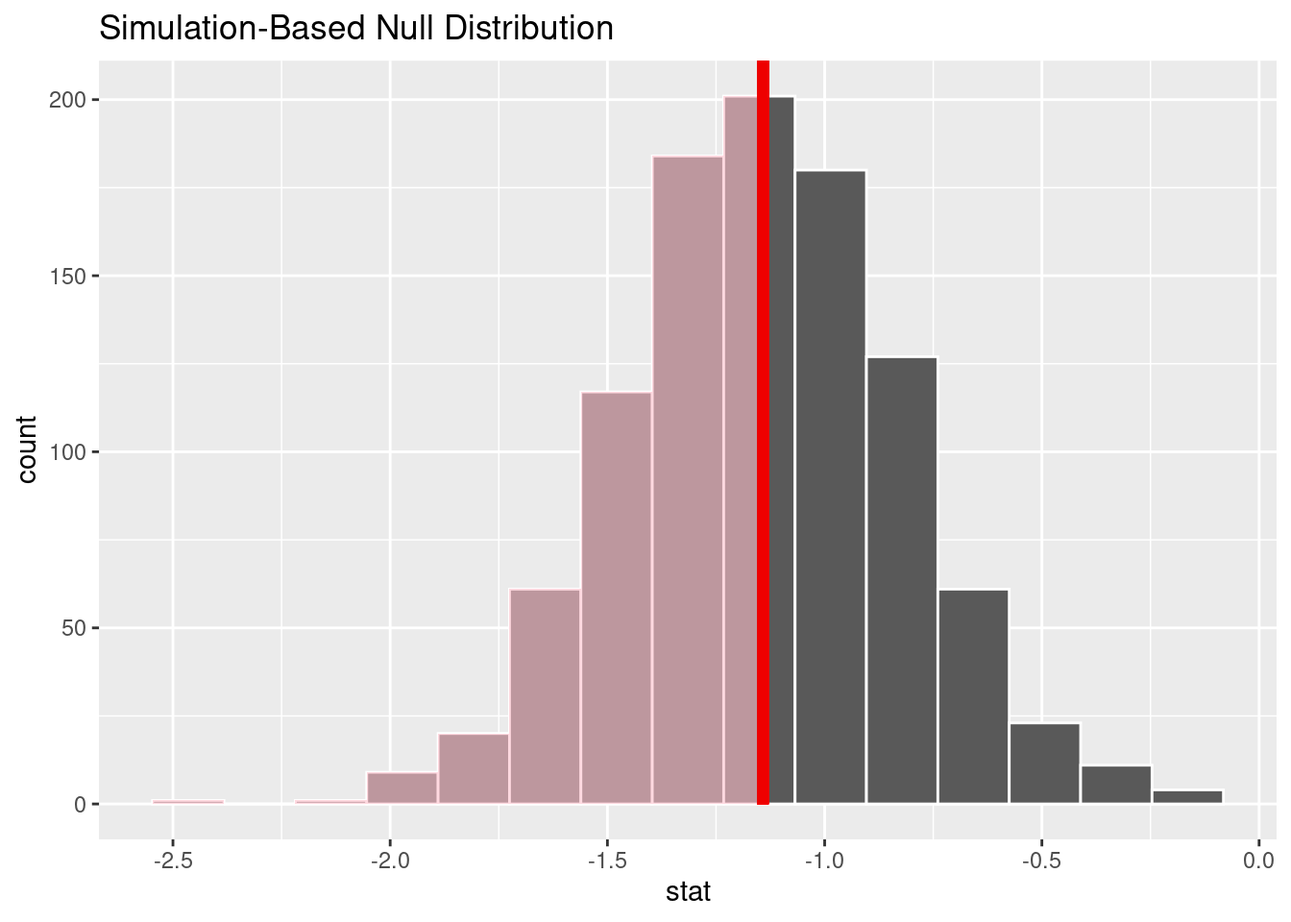
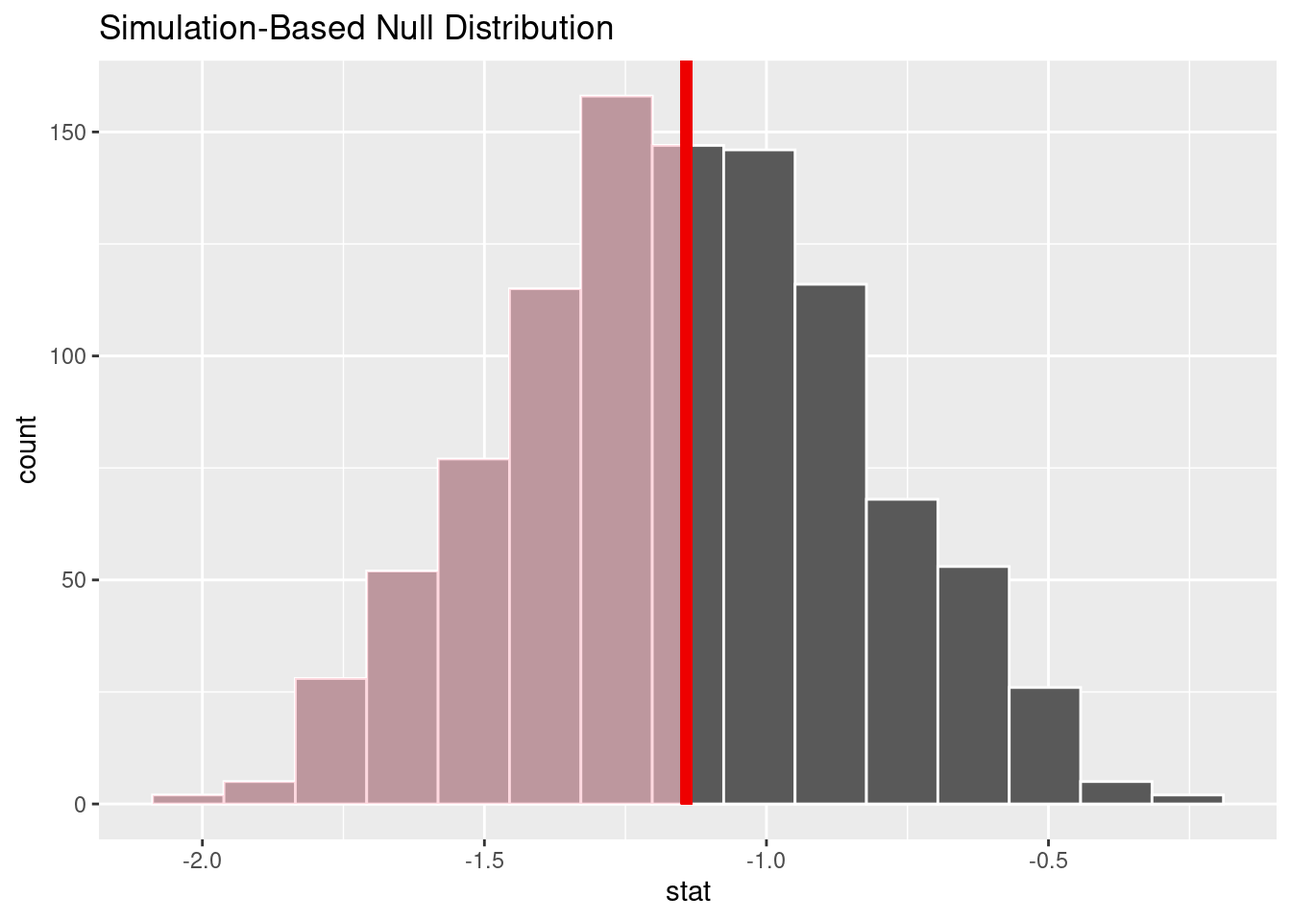
update in slides

diff --git a/docs/report.html b/docs/report.html
@@ -257,7 +257,7 @@ code span.wa { color: #60a0b0; font-weight: bold; font-style: italic; } /* Warni
 ✖ dplyr::lag()      masks stats::lag()
 ✖ yardstick::spec() masks readr::spec()
 ✖ recipes::step()   masks stats::step()
-• Dig deeper into tidy modeling with R at https://www.tmwr.org</code></pre>
+• Learn how to get started at https://www.tidymodels.org/start/</code></pre>
 </div>
 <div class="sourceCode cell-code" id="cb5"><pre class="sourceCode r code-with-copy"><code class="sourceCode r"><span id="cb5-1"><a href="#cb5-1" aria-hidden="true" tabindex="-1"></a><span class="fu">library</span>(dplyr)</span>
 <span id="cb5-2"><a href="#cb5-2" aria-hidden="true" tabindex="-1"></a></span>
@@ -499,24 +499,25 @@ Specify the column types or set `show_col_types = FALSE` to quiet this message.
 <section id="first-analysis-hypothesis-test" class="level4">
 <h4 class="anchored" data-anchor-id="first-analysis-hypothesis-test"><strong><em>First Analysis: Hypothesis Test</em></strong></h4>
 <p><strong>Research Question:</strong> Is the quality of exclusive shows different from non-exclusive shows in a specific platform, for each platform separately?</p>
-<p><strong>Null Hypothesis</strong>: The Rotten Tomatoes score of exclusive shows is less than the Rotten Tomatoes score of non-exclusive shows across all four platforms.</p>
+<p><strong>Null Hypothesis</strong>: The average Rotten Tomatoes score of exclusive shows is less than the average Rotten Tomatoes score of non-exclusive shows across all four platforms.</p>
 <p><span class="math display">\[
 H_0: \mu_{exclusive} &lt; \mu_{non-exclusive}
 \]</span></p>
-<p>Alternative Hypothesis: The Rotten Tomatoes score of exclusive shows is greater than the Rotten Tomatoes score of non-exclusive shows across all four platforms.</p>
+<p>Alternative Hypothesis: The average Rotten Tomatoes score of exclusive shows is greater than the average Rotten Tomatoes score of non-exclusive shows across all four platforms.</p>
 <p><span class="math display">\[
 H_0: \mu_{exclusive} &gt; \mu_{non-exclusive}
 \]</span></p>
 <div class="cell">
 <div class="sourceCode cell-code" id="cb22"><pre class="sourceCode r code-with-copy"><code class="sourceCode r"><span id="cb22-1"><a href="#cb22-1" aria-hidden="true" tabindex="-1"></a><span class="co">#|label: hypothesis-testing-analysis-1-multivariable</span></span>
-<span id="cb22-2"><a href="#cb22-2" aria-hidden="true" tabindex="-1"></a></span>
-<span id="cb22-3"><a href="#cb22-3" aria-hidden="true" tabindex="-1"></a><span class="fu">names</span>(tv_shows_cleaned_copy)[<span class="dv">7</span>] <span class="ot">&lt;-</span> <span class="st">"rotten_tomatoes"</span></span>
-<span id="cb22-4"><a href="#cb22-4" aria-hidden="true" tabindex="-1"></a></span>
-<span id="cb22-5"><a href="#cb22-5" aria-hidden="true" tabindex="-1"></a>observed_fit <span class="ot">&lt;-</span> tv_shows_cleaned_copy <span class="sc">|&gt;</span></span>
-<span id="cb22-6"><a href="#cb22-6" aria-hidden="true" tabindex="-1"></a>  <span class="fu">specify</span>(rotten_tomatoes <span class="sc">~</span> Netflix <span class="sc">+</span> Hulu <span class="sc">+</span> disney_plus <span class="sc">+</span> prime_video) <span class="sc">|&gt;</span></span>
-<span id="cb22-7"><a href="#cb22-7" aria-hidden="true" tabindex="-1"></a>  <span class="fu">fit</span>()</span>
-<span id="cb22-8"><a href="#cb22-8" aria-hidden="true" tabindex="-1"></a></span>
-<span id="cb22-9"><a href="#cb22-9" aria-hidden="true" tabindex="-1"></a>observed_fit</span></code><button title="Copy to Clipboard" class="code-copy-button"><i class="bi"></i></button></pre></div>
+<span id="cb22-2"><a href="#cb22-2" aria-hidden="true" tabindex="-1"></a><span class="co">#|fig-height: 20</span></span>
+<span id="cb22-3"><a href="#cb22-3" aria-hidden="true" tabindex="-1"></a></span>
+<span id="cb22-4"><a href="#cb22-4" aria-hidden="true" tabindex="-1"></a><span class="fu">names</span>(tv_shows_cleaned_copy)[<span class="dv">7</span>] <span class="ot">&lt;-</span> <span class="st">"rotten_tomatoes"</span></span>
+<span id="cb22-5"><a href="#cb22-5" aria-hidden="true" tabindex="-1"></a></span>
+<span id="cb22-6"><a href="#cb22-6" aria-hidden="true" tabindex="-1"></a>observed_fit <span class="ot">&lt;-</span> tv_shows_cleaned_copy <span class="sc">|&gt;</span></span>
+<span id="cb22-7"><a href="#cb22-7" aria-hidden="true" tabindex="-1"></a>  <span class="fu">specify</span>(rotten_tomatoes <span class="sc">~</span> Netflix <span class="sc">+</span> Hulu <span class="sc">+</span> disney_plus <span class="sc">+</span> prime_video) <span class="sc">|&gt;</span></span>
+<span id="cb22-8"><a href="#cb22-8" aria-hidden="true" tabindex="-1"></a>  <span class="fu">fit</span>()</span>
+<span id="cb22-9"><a href="#cb22-9" aria-hidden="true" tabindex="-1"></a></span>
+<span id="cb22-10"><a href="#cb22-10" aria-hidden="true" tabindex="-1"></a>observed_fit</span></code><button title="Copy to Clipboard" class="code-copy-button"><i class="bi"></i></button></pre></div>
 <div class="cell-output cell-output-stdout">
 <pre><code># A tibble: 5 × 2
   term           estimate
@@ -544,11 +545,11 @@ H_0: \mu_{exclusive} &gt; \mu_{non-exclusive}
 <pre><code># A tibble: 5 × 3
   term           lower_ci upper_ci
   &lt;chr&gt;             &lt;dbl&gt;    &lt;dbl&gt;
-1 HuluYes           -1.85     1.72
-2 NetflixYes        -1.95     1.79
-3 disney_plusYes    -2.59     2.86
-4 intercept         45.4     49.0 
-5 prime_videoYes    -1.88     1.87</code></pre>
+1 HuluYes           -1.81     1.97
+2 NetflixYes        -1.91     2.04
+3 disney_plusYes    -2.73     2.70
+4 intercept         45.2     49.1 
+5 prime_videoYes    -1.89     1.94</code></pre>
 </div>
 <div class="sourceCode cell-code" id="cb26"><pre class="sourceCode r code-with-copy"><code class="sourceCode r"><span id="cb26-1"><a href="#cb26-1" aria-hidden="true" tabindex="-1"></a><span class="fu">get_p_value</span>(</span>
 <span id="cb26-2"><a href="#cb26-2" aria-hidden="true" tabindex="-1"></a>  <span class="at">x =</span> null_fits,</span>
@@ -568,7 +569,103 @@ approximation based on the number of `reps` chosen in the `generate()` step. See
 2 NetflixYes       1    
 3 disney_plusYes   1    
 4 intercept        0    
-5 prime_videoYes   0.471</code></pre>
+5 prime_videoYes   0.457</code></pre>
+</div>
+<div class="sourceCode cell-code" id="cb29"><pre class="sourceCode r code-with-copy"><code class="sourceCode r"><span id="cb29-1"><a href="#cb29-1" aria-hidden="true" tabindex="-1"></a><span class="fu">visualize</span>(null_fits) <span class="sc">+</span></span>
+<span id="cb29-2"><a href="#cb29-2" aria-hidden="true" tabindex="-1"></a>  <span class="fu">shade_p_value</span>(<span class="at">obs_stat =</span> observed_fit, <span class="at">direction=</span><span class="st">"two sided"</span>)</span></code><button title="Copy to Clipboard" class="code-copy-button"><i class="bi"></i></button></pre></div>
+<div class="cell-output-display">
+<p><img src="report_files/figure-html/unnamed-chunk-3-1.png" class="img-fluid" width="672"></p>
+</div>
+</div>
+<div class="cell">
+<div class="sourceCode cell-code" id="cb30"><pre class="sourceCode r code-with-copy"><code class="sourceCode r"><span id="cb30-1"><a href="#cb30-1" aria-hidden="true" tabindex="-1"></a>tv_shows_cleaned_copy1 <span class="ot">&lt;-</span> tv_shows_cleaned_copy <span class="sc">|&gt;</span></span>
+<span id="cb30-2"><a href="#cb30-2" aria-hidden="true" tabindex="-1"></a>  <span class="fu">pivot_longer</span>(</span>
+<span id="cb30-3"><a href="#cb30-3" aria-hidden="true" tabindex="-1"></a>    <span class="at">cols =</span> exclusive_netflix<span class="sc">:</span>exclusive_disney_plus,</span>
+<span id="cb30-4"><a href="#cb30-4" aria-hidden="true" tabindex="-1"></a>    <span class="at">names_to =</span> <span class="st">"all_platforms"</span>,</span>
+<span id="cb30-5"><a href="#cb30-5" aria-hidden="true" tabindex="-1"></a>    <span class="at">values_to =</span> <span class="st">"exclusivity"</span></span>
+<span id="cb30-6"><a href="#cb30-6" aria-hidden="true" tabindex="-1"></a>  )</span>
+<span id="cb30-7"><a href="#cb30-7" aria-hidden="true" tabindex="-1"></a></span>
+<span id="cb30-8"><a href="#cb30-8" aria-hidden="true" tabindex="-1"></a>tv_shows_cleaned_copy1</span></code><button title="Copy to Clipboard" class="code-copy-button"><i class="bi"></i></button></pre></div>
+<div class="cell-output cell-output-stdout">
+<pre><code># A tibble: 21,472 × 14
+    ...1    ID Title  Year Age   IMDb  rotten_tomatoes Netflix Hulu  prime_video
+   &lt;dbl&gt; &lt;dbl&gt; &lt;chr&gt; &lt;dbl&gt; &lt;chr&gt; &lt;chr&gt;           &lt;int&gt; &lt;chr&gt;   &lt;chr&gt; &lt;chr&gt;      
+ 1     0     1 Brea…  2008 18+   9.4/…             100 Yes     No    No         
+ 2     0     1 Brea…  2008 18+   9.4/…             100 Yes     No    No         
+ 3     0     1 Brea…  2008 18+   9.4/…             100 Yes     No    No         
+ 4     0     1 Brea…  2008 18+   9.4/…             100 Yes     No    No         
+ 5     1     2 Stra…  2016 16+   8.7/…              96 Yes     No    No         
+ 6     1     2 Stra…  2016 16+   8.7/…              96 Yes     No    No         
+ 7     1     2 Stra…  2016 16+   8.7/…              96 Yes     No    No         
+ 8     1     2 Stra…  2016 16+   8.7/…              96 Yes     No    No         
+ 9     2     3 Atta…  2013 18+   9.0/…              95 Yes     Yes   No         
+10     2     3 Atta…  2013 18+   9.0/…              95 Yes     Yes   No         
+# ℹ 21,462 more rows
+# ℹ 4 more variables: disney_plus &lt;chr&gt;, Type &lt;dbl&gt;, all_platforms &lt;chr&gt;,
+#   exclusivity &lt;lgl&gt;</code></pre>
+</div>
+<div class="sourceCode cell-code" id="cb32"><pre class="sourceCode r code-with-copy"><code class="sourceCode r"><span id="cb32-1"><a href="#cb32-1" aria-hidden="true" tabindex="-1"></a><span class="fu">names</span>(tv_shows_cleaned_copy1)[<span class="dv">7</span>] <span class="ot">&lt;-</span> <span class="st">"rotten_tomatoes"</span></span>
+<span id="cb32-2"><a href="#cb32-2" aria-hidden="true" tabindex="-1"></a></span>
+<span id="cb32-3"><a href="#cb32-3" aria-hidden="true" tabindex="-1"></a>observed_fit1 <span class="ot">&lt;-</span> tv_shows_cleaned_copy1 <span class="sc">|&gt;</span></span>
+<span id="cb32-4"><a href="#cb32-4" aria-hidden="true" tabindex="-1"></a>  <span class="fu">specify</span>(rotten_tomatoes <span class="sc">~</span> exclusivity) <span class="sc">|&gt;</span></span>
+<span id="cb32-5"><a href="#cb32-5" aria-hidden="true" tabindex="-1"></a>  <span class="fu">calculate</span>(<span class="at">stat =</span> <span class="st">"diff in means"</span>, <span class="at">order =</span> <span class="fu">c</span>(<span class="cn">TRUE</span>, <span class="cn">FALSE</span>))</span>
+<span id="cb32-6"><a href="#cb32-6" aria-hidden="true" tabindex="-1"></a></span>
+<span id="cb32-7"><a href="#cb32-7" aria-hidden="true" tabindex="-1"></a>observed_fit1</span></code><button title="Copy to Clipboard" class="code-copy-button"><i class="bi"></i></button></pre></div>
+<div class="cell-output cell-output-stdout">
+<pre><code>Response: rotten_tomatoes (numeric)
+Explanatory: exclusivity (factor)
+# A tibble: 1 × 1
+   stat
+  &lt;dbl&gt;
+1 -1.14</code></pre>
+</div>
+<div class="sourceCode cell-code" id="cb34"><pre class="sourceCode r code-with-copy"><code class="sourceCode r"><span id="cb34-1"><a href="#cb34-1" aria-hidden="true" tabindex="-1"></a>null_fits1 <span class="ot">&lt;-</span> tv_shows_cleaned_copy1 <span class="sc">|&gt;</span></span>
+<span id="cb34-2"><a href="#cb34-2" aria-hidden="true" tabindex="-1"></a>  <span class="fu">specify</span>(rotten_tomatoes <span class="sc">~</span> exclusivity) <span class="sc">|&gt;</span></span>
+<span id="cb34-3"><a href="#cb34-3" aria-hidden="true" tabindex="-1"></a>  <span class="fu">hypothesize</span>(<span class="at">null =</span> <span class="st">"independence"</span>) <span class="sc">|&gt;</span></span>
+<span id="cb34-4"><a href="#cb34-4" aria-hidden="true" tabindex="-1"></a>  <span class="fu">generate</span>(<span class="at">reps =</span> <span class="dv">1000</span>, <span class="at">type =</span> <span class="st">"permute"</span>) <span class="sc">|&gt;</span></span>
+<span id="cb34-5"><a href="#cb34-5" aria-hidden="true" tabindex="-1"></a>  <span class="fu">calculate</span>(<span class="at">stat =</span> <span class="st">"diff in means"</span>, <span class="at">order =</span> <span class="fu">c</span>(<span class="cn">TRUE</span>, <span class="cn">FALSE</span>))</span>
+<span id="cb34-6"><a href="#cb34-6" aria-hidden="true" tabindex="-1"></a></span>
+<span id="cb34-7"><a href="#cb34-7" aria-hidden="true" tabindex="-1"></a><span class="fu">get_p_value</span>(</span>
+<span id="cb34-8"><a href="#cb34-8" aria-hidden="true" tabindex="-1"></a>  <span class="at">x =</span> null_fits1,</span>
+<span id="cb34-9"><a href="#cb34-9" aria-hidden="true" tabindex="-1"></a>  <span class="at">obs_stat =</span> observed_fit1,</span>
+<span id="cb34-10"><a href="#cb34-10" aria-hidden="true" tabindex="-1"></a>  <span class="at">direction =</span> <span class="st">"less"</span></span>
+<span id="cb34-11"><a href="#cb34-11" aria-hidden="true" tabindex="-1"></a>)</span></code><button title="Copy to Clipboard" class="code-copy-button"><i class="bi"></i></button></pre></div>
+<div class="cell-output cell-output-stderr">
+<pre><code>Warning: Please be cautious in reporting a p-value of 0. This result is an
+approximation based on the number of `reps` chosen in the `generate()` step. See
+`?get_p_value()` for more information.</code></pre>
+</div>
+<div class="cell-output cell-output-stdout">
+<pre><code># A tibble: 1 × 1
+  p_value
+    &lt;dbl&gt;
+1       0</code></pre>
+</div>
+<div class="sourceCode cell-code" id="cb37"><pre class="sourceCode r code-with-copy"><code class="sourceCode r"><span id="cb37-1"><a href="#cb37-1" aria-hidden="true" tabindex="-1"></a><span class="co">#Confidence Intervals</span></span>
+<span id="cb37-2"><a href="#cb37-2" aria-hidden="true" tabindex="-1"></a></span>
+<span id="cb37-3"><a href="#cb37-3" aria-hidden="true" tabindex="-1"></a>null_fits1 <span class="ot">&lt;-</span> tv_shows_cleaned_copy1 <span class="sc">|&gt;</span></span>
+<span id="cb37-4"><a href="#cb37-4" aria-hidden="true" tabindex="-1"></a>  <span class="fu">specify</span>(rotten_tomatoes <span class="sc">~</span> exclusivity) <span class="sc">|&gt;</span></span>
+<span id="cb37-5"><a href="#cb37-5" aria-hidden="true" tabindex="-1"></a>  <span class="fu">hypothesize</span>(<span class="at">null =</span> <span class="st">"independence"</span>) <span class="sc">|&gt;</span></span>
+<span id="cb37-6"><a href="#cb37-6" aria-hidden="true" tabindex="-1"></a>  <span class="fu">generate</span>(<span class="at">reps =</span> <span class="dv">1000</span>, <span class="at">type =</span> <span class="st">"bootstrap"</span>) <span class="sc">|&gt;</span></span>
+<span id="cb37-7"><a href="#cb37-7" aria-hidden="true" tabindex="-1"></a>  <span class="fu">calculate</span>(<span class="at">stat =</span> <span class="st">"diff in means"</span>, <span class="at">order =</span> <span class="fu">c</span>(<span class="cn">TRUE</span>, <span class="cn">FALSE</span>))</span>
+<span id="cb37-8"><a href="#cb37-8" aria-hidden="true" tabindex="-1"></a></span>
+<span id="cb37-9"><a href="#cb37-9" aria-hidden="true" tabindex="-1"></a>ci1 <span class="ot">&lt;-</span> <span class="fu">get_confidence_interval</span>(</span>
+<span id="cb37-10"><a href="#cb37-10" aria-hidden="true" tabindex="-1"></a>  <span class="at">x =</span> null_fits1,</span>
+<span id="cb37-11"><a href="#cb37-11" aria-hidden="true" tabindex="-1"></a>  <span class="at">point_estimate =</span> observed_fit1,</span>
+<span id="cb37-12"><a href="#cb37-12" aria-hidden="true" tabindex="-1"></a>  <span class="at">level =</span> <span class="fl">0.95</span></span>
+<span id="cb37-13"><a href="#cb37-13" aria-hidden="true" tabindex="-1"></a>)</span>
+<span id="cb37-14"><a href="#cb37-14" aria-hidden="true" tabindex="-1"></a></span>
+<span id="cb37-15"><a href="#cb37-15" aria-hidden="true" tabindex="-1"></a><span class="fu">print</span>(ci1)</span></code><button title="Copy to Clipboard" class="code-copy-button"><i class="bi"></i></button></pre></div>
+<div class="cell-output cell-output-stdout">
+<pre><code># A tibble: 1 × 2
+  lower_ci upper_ci
+     &lt;dbl&gt;    &lt;dbl&gt;
+1    -1.74   -0.533</code></pre>
+</div>
+<div class="sourceCode cell-code" id="cb39"><pre class="sourceCode r code-with-copy"><code class="sourceCode r"><span id="cb39-1"><a href="#cb39-1" aria-hidden="true" tabindex="-1"></a><span class="fu">visualize</span>(null_fits1) <span class="sc">+</span></span>
+<span id="cb39-2"><a href="#cb39-2" aria-hidden="true" tabindex="-1"></a>  <span class="fu">shade_p_value</span>(<span class="at">obs_stat =</span> observed_fit1, <span class="at">direction=</span><span class="st">"less"</span>)</span></code><button title="Copy to Clipboard" class="code-copy-button"><i class="bi"></i></button></pre></div>
+<div class="cell-output-display">
+<p><img src="report_files/figure-html/unnamed-chunk-4-1.png" class="img-fluid" width="672"></p>
 </div>
 </div>
 </section>
@@ -584,19 +681,19 @@ H_0: μ1 = μ2 = μ3 = μ4
 H_A: μ1 ≠ μ2 ≠ μ3 ≠ μ4
 \]</span></p>
 <div class="cell">
-<div class="sourceCode cell-code" id="cb29"><pre class="sourceCode r code-with-copy"><code class="sourceCode r"><span id="cb29-1"><a href="#cb29-1" aria-hidden="true" tabindex="-1"></a><span class="fu">library</span>(forcats)</span>
-<span id="cb29-2"><a href="#cb29-2" aria-hidden="true" tabindex="-1"></a></span>
-<span id="cb29-3"><a href="#cb29-3" aria-hidden="true" tabindex="-1"></a>tv_shows_exclusive <span class="ot">&lt;-</span> tv_shows_cleaned <span class="sc">|&gt;</span></span>
-<span id="cb29-4"><a href="#cb29-4" aria-hidden="true" tabindex="-1"></a>  <span class="fu">pivot_longer</span>(<span class="at">cols =</span> <span class="fu">c</span>(exclusive_netflix, exclusive_hulu, exclusive_disney_plus, exclusive_prime_video), <span class="at">values_to =</span> <span class="st">"bool"</span>, <span class="at">names_to =</span> <span class="st">"shows"</span>) <span class="sc">|&gt;</span></span>
-<span id="cb29-5"><a href="#cb29-5" aria-hidden="true" tabindex="-1"></a>  <span class="fu">filter</span>(bool <span class="sc">==</span> <span class="cn">TRUE</span>) <span class="sc">|&gt;</span></span>
-<span id="cb29-6"><a href="#cb29-6" aria-hidden="true" tabindex="-1"></a>  <span class="fu">mutate</span>(<span class="at">shows =</span> <span class="fu">fct_relevel</span>(<span class="at">.f =</span> shows, <span class="st">"exclusive_netflix"</span>))</span>
-<span id="cb29-7"><a href="#cb29-7" aria-hidden="true" tabindex="-1"></a></span>
-<span id="cb29-8"><a href="#cb29-8" aria-hidden="true" tabindex="-1"></a><span class="fu">set.seed</span>(<span class="dv">123</span>)</span>
-<span id="cb29-9"><a href="#cb29-9" aria-hidden="true" tabindex="-1"></a>observed_fit <span class="ot">&lt;-</span> tv_shows_exclusive <span class="sc">|&gt;</span></span>
-<span id="cb29-10"><a href="#cb29-10" aria-hidden="true" tabindex="-1"></a>  <span class="fu">specify</span>(<span class="st">`</span><span class="at">Rotten Tomatoes</span><span class="st">`</span> <span class="sc">~</span> shows) <span class="sc">|&gt;</span></span>
-<span id="cb29-11"><a href="#cb29-11" aria-hidden="true" tabindex="-1"></a>  <span class="fu">fit</span>()</span>
-<span id="cb29-12"><a href="#cb29-12" aria-hidden="true" tabindex="-1"></a></span>
-<span id="cb29-13"><a href="#cb29-13" aria-hidden="true" tabindex="-1"></a>observed_fit</span></code><button title="Copy to Clipboard" class="code-copy-button"><i class="bi"></i></button></pre></div>
+<div class="sourceCode cell-code" id="cb40"><pre class="sourceCode r code-with-copy"><code class="sourceCode r"><span id="cb40-1"><a href="#cb40-1" aria-hidden="true" tabindex="-1"></a><span class="fu">library</span>(forcats)</span>
+<span id="cb40-2"><a href="#cb40-2" aria-hidden="true" tabindex="-1"></a></span>
+<span id="cb40-3"><a href="#cb40-3" aria-hidden="true" tabindex="-1"></a>tv_shows_exclusive <span class="ot">&lt;-</span> tv_shows_cleaned <span class="sc">|&gt;</span></span>
+<span id="cb40-4"><a href="#cb40-4" aria-hidden="true" tabindex="-1"></a>  <span class="fu">pivot_longer</span>(<span class="at">cols =</span> <span class="fu">c</span>(exclusive_netflix, exclusive_hulu, exclusive_disney_plus, exclusive_prime_video), <span class="at">values_to =</span> <span class="st">"bool"</span>, <span class="at">names_to =</span> <span class="st">"shows"</span>) <span class="sc">|&gt;</span></span>
+<span id="cb40-5"><a href="#cb40-5" aria-hidden="true" tabindex="-1"></a>  <span class="fu">filter</span>(bool <span class="sc">==</span> <span class="cn">TRUE</span>) <span class="sc">|&gt;</span></span>
+<span id="cb40-6"><a href="#cb40-6" aria-hidden="true" tabindex="-1"></a>  <span class="fu">mutate</span>(<span class="at">shows =</span> <span class="fu">fct_relevel</span>(<span class="at">.f =</span> shows, <span class="st">"exclusive_netflix"</span>))</span>
+<span id="cb40-7"><a href="#cb40-7" aria-hidden="true" tabindex="-1"></a></span>
+<span id="cb40-8"><a href="#cb40-8" aria-hidden="true" tabindex="-1"></a><span class="fu">set.seed</span>(<span class="dv">123</span>)</span>
+<span id="cb40-9"><a href="#cb40-9" aria-hidden="true" tabindex="-1"></a>observed_fit <span class="ot">&lt;-</span> tv_shows_exclusive <span class="sc">|&gt;</span></span>
+<span id="cb40-10"><a href="#cb40-10" aria-hidden="true" tabindex="-1"></a>  <span class="fu">specify</span>(<span class="st">`</span><span class="at">Rotten Tomatoes</span><span class="st">`</span> <span class="sc">~</span> shows) <span class="sc">|&gt;</span></span>
+<span id="cb40-11"><a href="#cb40-11" aria-hidden="true" tabindex="-1"></a>  <span class="fu">fit</span>()</span>
+<span id="cb40-12"><a href="#cb40-12" aria-hidden="true" tabindex="-1"></a></span>
+<span id="cb40-13"><a href="#cb40-13" aria-hidden="true" tabindex="-1"></a>observed_fit</span></code><button title="Copy to Clipboard" class="code-copy-button"><i class="bi"></i></button></pre></div>
 <div class="cell-output cell-output-stdout">
 <pre><code># A tibble: 4 × 2
   term                       estimate
@@ -606,30 +703,18 @@ H_A: μ1 ≠ μ2 ≠ μ3 ≠ μ4
 3 showsexclusive_hulu           -1.56
 4 showsexclusive_prime_video   -17.9 </code></pre>
 </div>
-<div class="sourceCode cell-code" id="cb31"><pre class="sourceCode r code-with-copy"><code class="sourceCode r"><span id="cb31-1"><a href="#cb31-1" aria-hidden="true" tabindex="-1"></a>null_fits <span class="ot">&lt;-</span> tv_shows_exclusive <span class="sc">|&gt;</span></span>
-<span id="cb31-2"><a href="#cb31-2" aria-hidden="true" tabindex="-1"></a>  <span class="fu">specify</span>(<span class="st">`</span><span class="at">Rotten Tomatoes</span><span class="st">`</span> <span class="sc">~</span> shows) <span class="sc">|&gt;</span></span>
-<span id="cb31-3"><a href="#cb31-3" aria-hidden="true" tabindex="-1"></a>  <span class="fu">hypothesize</span>(<span class="at">null =</span> <span class="st">"independence"</span>) <span class="sc">|&gt;</span></span>
-<span id="cb31-4"><a href="#cb31-4" aria-hidden="true" tabindex="-1"></a>  <span class="fu">generate</span>(<span class="at">reps =</span> <span class="dv">1000</span>, <span class="at">type =</span> <span class="st">"permute"</span>) <span class="sc">|&gt;</span></span>
-<span id="cb31-5"><a href="#cb31-5" aria-hidden="true" tabindex="-1"></a>  <span class="fu">fit</span>()</span>
-<span id="cb31-6"><a href="#cb31-6" aria-hidden="true" tabindex="-1"></a></span>
-<span id="cb31-7"><a href="#cb31-7" aria-hidden="true" tabindex="-1"></a><span class="fu">get_confidence_interval</span>(</span>
-<span id="cb31-8"><a href="#cb31-8" aria-hidden="true" tabindex="-1"></a>  <span class="at">x =</span> null_fits,</span>
-<span id="cb31-9"><a href="#cb31-9" aria-hidden="true" tabindex="-1"></a>  <span class="at">point_estimate =</span> observed_fit,</span>
-<span id="cb31-10"><a href="#cb31-10" aria-hidden="true" tabindex="-1"></a>  <span class="at">level =</span> .<span class="dv">95</span>)</span></code><button title="Copy to Clipboard" class="code-copy-button"><i class="bi"></i></button></pre></div>
-<div class="cell-output cell-output-stdout">
-<pre><code># A tibble: 4 × 3
-  term                       lower_ci upper_ci
-  &lt;chr&gt;                         &lt;dbl&gt;    &lt;dbl&gt;
-1 intercept                     45.6     47.1 
-2 showsexclusive_disney_plus    -2.35     2.21
-3 showsexclusive_hulu           -1.37     1.28
-4 showsexclusive_prime_video    -1.36     1.29</code></pre>
-</div>
-<div class="sourceCode cell-code" id="cb33"><pre class="sourceCode r code-with-copy"><code class="sourceCode r"><span id="cb33-1"><a href="#cb33-1" aria-hidden="true" tabindex="-1"></a><span class="fu">get_p_value</span>(</span>
-<span id="cb33-2"><a href="#cb33-2" aria-hidden="true" tabindex="-1"></a>  <span class="at">x =</span> null_fits,</span>
-<span id="cb33-3"><a href="#cb33-3" aria-hidden="true" tabindex="-1"></a>  <span class="at">obs_stat =</span> observed_fit,</span>
-<span id="cb33-4"><a href="#cb33-4" aria-hidden="true" tabindex="-1"></a>  <span class="at">direction =</span> <span class="st">"two sided"</span></span>
-<span id="cb33-5"><a href="#cb33-5" aria-hidden="true" tabindex="-1"></a>)</span></code><button title="Copy to Clipboard" class="code-copy-button"><i class="bi"></i></button></pre></div>
+<div class="sourceCode cell-code" id="cb42"><pre class="sourceCode r code-with-copy"><code class="sourceCode r"><span id="cb42-1"><a href="#cb42-1" aria-hidden="true" tabindex="-1"></a><span class="co"># Permuting to compute p values</span></span>
+<span id="cb42-2"><a href="#cb42-2" aria-hidden="true" tabindex="-1"></a>null_fits <span class="ot">&lt;-</span> tv_shows_exclusive <span class="sc">|&gt;</span></span>
+<span id="cb42-3"><a href="#cb42-3" aria-hidden="true" tabindex="-1"></a>  <span class="fu">specify</span>(<span class="st">`</span><span class="at">Rotten Tomatoes</span><span class="st">`</span> <span class="sc">~</span> shows) <span class="sc">|&gt;</span></span>
+<span id="cb42-4"><a href="#cb42-4" aria-hidden="true" tabindex="-1"></a>  <span class="fu">hypothesize</span>(<span class="at">null =</span> <span class="st">"independence"</span>) <span class="sc">|&gt;</span></span>
+<span id="cb42-5"><a href="#cb42-5" aria-hidden="true" tabindex="-1"></a>  <span class="fu">generate</span>(<span class="at">reps =</span> <span class="dv">1000</span>, <span class="at">type =</span> <span class="st">"permute"</span>) <span class="sc">|&gt;</span></span>
+<span id="cb42-6"><a href="#cb42-6" aria-hidden="true" tabindex="-1"></a>  <span class="fu">fit</span>()</span>
+<span id="cb42-7"><a href="#cb42-7" aria-hidden="true" tabindex="-1"></a></span>
+<span id="cb42-8"><a href="#cb42-8" aria-hidden="true" tabindex="-1"></a><span class="fu">get_p_value</span>(</span>
+<span id="cb42-9"><a href="#cb42-9" aria-hidden="true" tabindex="-1"></a>  <span class="at">x =</span> null_fits,</span>
+<span id="cb42-10"><a href="#cb42-10" aria-hidden="true" tabindex="-1"></a>  <span class="at">obs_stat =</span> observed_fit,</span>
+<span id="cb42-11"><a href="#cb42-11" aria-hidden="true" tabindex="-1"></a>  <span class="at">direction =</span> <span class="st">"two sided"</span></span>
+<span id="cb42-12"><a href="#cb42-12" aria-hidden="true" tabindex="-1"></a>)</span></code><button title="Copy to Clipboard" class="code-copy-button"><i class="bi"></i></button></pre></div>
 <div class="cell-output cell-output-stderr">
 <pre><code>Warning: Please be cautious in reporting a p-value of 0. This result is an
 approximation based on the number of `reps` chosen in the `generate()` step. See
@@ -651,6 +736,26 @@ approximation based on the number of `reps` chosen in the `generate()` step. See
 2 showsexclusive_disney_plus    0   
 3 showsexclusive_hulu           0.02
 4 showsexclusive_prime_video    0   </code></pre>
+</div>
+<div class="sourceCode cell-code" id="cb45"><pre class="sourceCode r code-with-copy"><code class="sourceCode r"><span id="cb45-1"><a href="#cb45-1" aria-hidden="true" tabindex="-1"></a><span class="co"># Bootstrapping to compute confidence interval</span></span>
+<span id="cb45-2"><a href="#cb45-2" aria-hidden="true" tabindex="-1"></a>h2_bootstrap <span class="ot">&lt;-</span> tv_shows_exclusive <span class="sc">|&gt;</span></span>
+<span id="cb45-3"><a href="#cb45-3" aria-hidden="true" tabindex="-1"></a>  <span class="fu">specify</span>(<span class="st">`</span><span class="at">Rotten Tomatoes</span><span class="st">`</span> <span class="sc">~</span> shows) <span class="sc">|&gt;</span></span>
+<span id="cb45-4"><a href="#cb45-4" aria-hidden="true" tabindex="-1"></a>  <span class="fu">hypothesize</span>(<span class="at">null =</span> <span class="st">"independence"</span>) <span class="sc">|&gt;</span></span>
+<span id="cb45-5"><a href="#cb45-5" aria-hidden="true" tabindex="-1"></a>  <span class="fu">generate</span>(<span class="at">reps =</span> <span class="dv">1000</span>, <span class="at">type =</span> <span class="st">"bootstrap"</span>) <span class="sc">|&gt;</span></span>
+<span id="cb45-6"><a href="#cb45-6" aria-hidden="true" tabindex="-1"></a>  <span class="fu">fit</span>()</span>
+<span id="cb45-7"><a href="#cb45-7" aria-hidden="true" tabindex="-1"></a></span>
+<span id="cb45-8"><a href="#cb45-8" aria-hidden="true" tabindex="-1"></a><span class="fu">get_confidence_interval</span>(</span>
+<span id="cb45-9"><a href="#cb45-9" aria-hidden="true" tabindex="-1"></a>  <span class="at">x =</span> h2_bootstrap,</span>
+<span id="cb45-10"><a href="#cb45-10" aria-hidden="true" tabindex="-1"></a>  <span class="at">point_estimate =</span> observed_fit,</span>
+<span id="cb45-11"><a href="#cb45-11" aria-hidden="true" tabindex="-1"></a>  <span class="at">level =</span> .<span class="dv">95</span>)</span></code><button title="Copy to Clipboard" class="code-copy-button"><i class="bi"></i></button></pre></div>
+<div class="cell-output cell-output-stdout">
+<pre><code># A tibble: 4 × 3
+  term                       lower_ci upper_ci
+  &lt;chr&gt;                         &lt;dbl&gt;    &lt;dbl&gt;
+1 intercept                     52.0    53.5  
+2 showsexclusive_disney_plus    -6.41   -2.77 
+3 showsexclusive_hulu           -2.81   -0.310
+4 showsexclusive_prime_video   -19.0   -16.6  </code></pre>
 </div>
 </div>
 </section>
@@ -690,7 +795,7 @@ approximation based on the number of `reps` chosen in the `generate()` step. See
 <section id="limitations" class="level1">
 <h1>Limitations</h1>
 <p>The first limitation is that our study right now just focuses on the quality of exclusive shows based on their rating scores (Rotten Tomatoes), which may not be a comprehensive measure of the quality of exclusive shows or non-exclusive shows on each platform. The analysis’s focus on Rotten Tomatoes ratings alone may not fully capture the perceived quality of exclusive shows on each platform. Moreover, considering the ratings of exclusive shows and not non-exclusive shows could limit the overall understanding of the quality of each platform’s content.</p>
-<p>The second limitation is that we could not find any reliable and consistent dataset for the popularity, preferences, viewerships, viewing rates, or the number of subscribers of each platform, which could also affect the audiences’ perceived quality and critical reception, limiting our study to find the relationship between the quality of exclusive shows or non-exclusive shows and the preference of platforms. This is a result of the competitiveness in the streaming industry. Companies’ revenue almost entirely depends on subscriptions, and some of them are less active in publishing them. Additionally, some of the viewership data we find are using different metrics and, therefore, cannot be used to generate inferences.</p>
+<p>The second limitation is that we could not find any reliable and consistent dataset for the popularity, preferences, viewerships, viewing rates, or the number of subscribers of each platform, which could also affect the audiences’ perceived quality and critical reception, limiting our study to find the relationship between the quality of exclusive shows or non-exclusive shows and the preference of platforms. This is a result of the competitiveness in the streaming industry. Companies’ revenue almost entirely depends on subscriptions, and some of them are less active in publishing them. Additionally, some of the viewership data we find are using different metrics and, therefore, cannot be used to generate inferences. We can try to find a more comprehensive dataset that includes more variables which we could include in our analysis to reduce bias of confounding variables in hypothesis testing. We could also join dataset with those information.</p>
 <p>The third limitation of our study is that there are unbalanced amounts of exclusive shows on each platform; for example, Netflix has significantly larger data of exclusive shows compared to the other platforms, which may affect the overall quality comparison between platforms. Disney Plus is a relatively new platform and has a smaller library of exclusive shows, which may limit the analysis. These unbalanced amounts of exclusive shows on each platform may introduce bias and affect the conclusions we can draw from our analyses.</p>
 <p>The fourth limitation is that our analysis plan uses tomato scores to represent quality. This definition could have some biases. Firstly, the tomato score is a critics rating rather than an audience rating. Many movies and shows have a target audience that is better or worse represented than the other. Critics might inadvertently bring bias into their rating, and subsequently, our definition of quality could be biased as well. In addition, some shows that are watched by fewer people are less rated with tomato score, making the score easily influenced by a few critics, and therefore create bias in the definition of quality.</p>
 <p>The fifth limitation is that our analysis does not account for the different types or genres of exclusive shows on each platform, such as comedies, documentaries, actions, etc., which may have different average ratings. We would have better insights if we had more data about the genres to compare shows of similar types across platforms rather than just looking at the overall average ratings.</p>

diff --git a/docs/presentation.html b/docs/presentation.html
@@ -463,7 +463,7 @@ H_A: μ1 ≠ μ2 ≠ μ3 ≠ μ4
 <div style="margin: 1px; padding: 10px;">
 <p><strong>Conclusion:</strong></p>
 <ol type="1">
-<li><p>To sum it up, the data provides sufficient evidence that exclusive shows on Hulu, Netflix, and Disney Plus tend to have higher Rotten Tomatoes ratings than non-exclusive shows on those platforms, with the exception of Prime Video.</p></li>
+<li><p>To sum it up, the data provides sufficient evidence that exclusive shows on the four platforms tend to have greater average Rotten Tomatoes ratings than non-exclusive shows on those platforms.</p></li>
 <li><p>According to the study, there appears to be a difference in the quality of exclusive programs offered by the four platforms, as evidenced by their Rotten Tomatoes ratings. Netflix, Hulu, and Disney Plus has similar average exclusive show quality, while Prime Video’s are significantly lower.</p></li>
 </ol>
 <p><strong>Future work:</strong></p>

diff --git a/docs/eda.html b/docs/eda.html
@@ -252,7 +252,7 @@ code span.wa { color: #60a0b0; font-weight: bold; font-style: italic; } /* Warni
 ✖ dplyr::lag()      masks stats::lag()
 ✖ yardstick::spec() masks readr::spec()
 ✖ recipes::step()   masks stats::step()
-• Dig deeper into tidy modeling with R at https://www.tmwr.org</code></pre>
+• Learn how to get started at https://www.tidymodels.org/start/</code></pre>
 </div>
 <div class="sourceCode cell-code" id="cb5"><pre class="sourceCode r code-with-copy"><code class="sourceCode r"><span id="cb5-1"><a href="#cb5-1" aria-hidden="true" tabindex="-1"></a><span class="fu">library</span>(dplyr)</span>
 <span id="cb5-2"><a href="#cb5-2" aria-hidden="true" tabindex="-1"></a></span>
